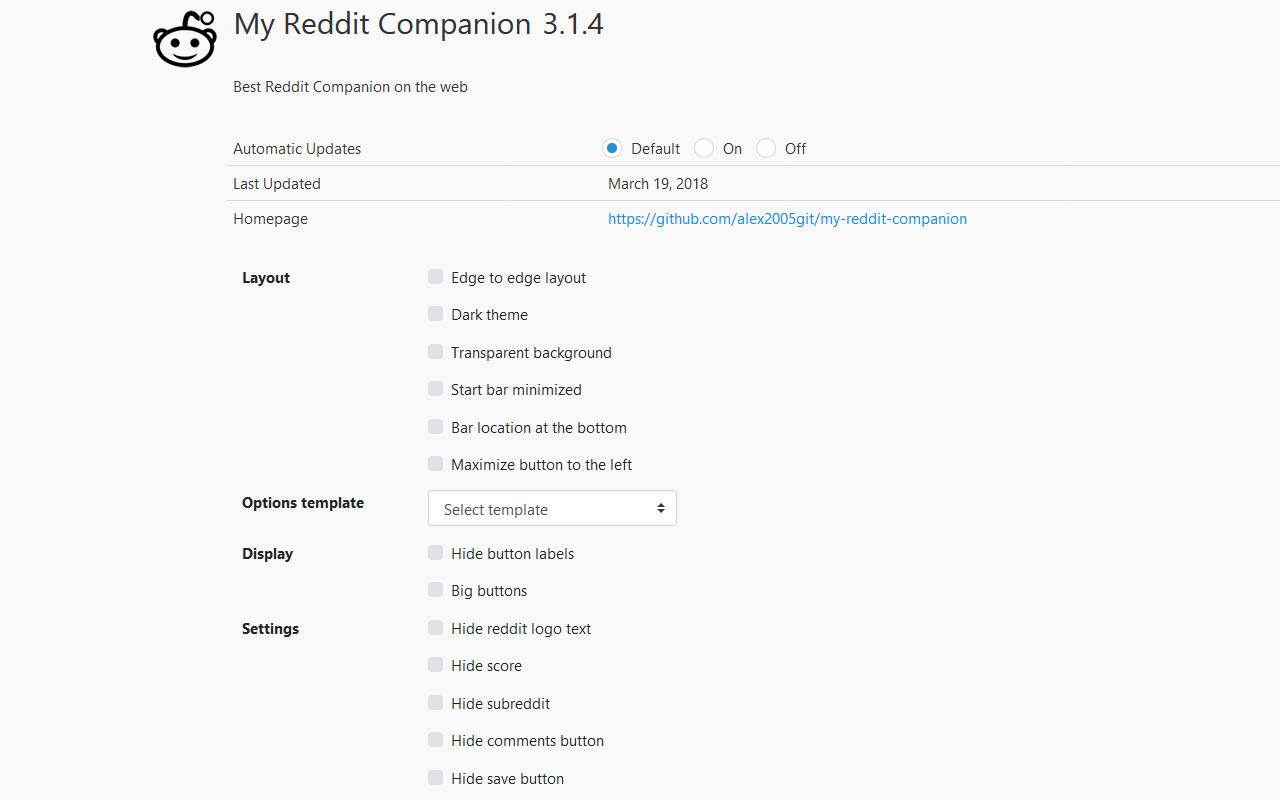
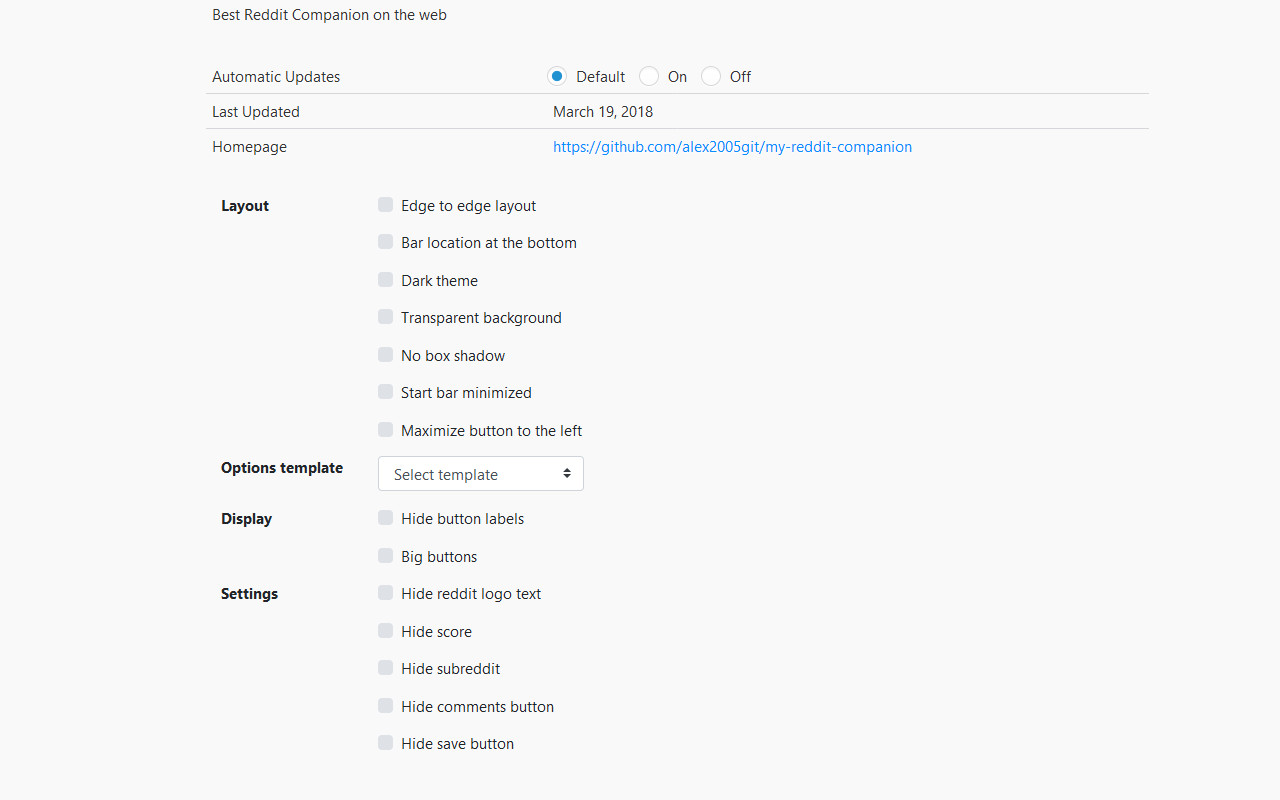
Add no box shadow option + small option changes

diff --git a/src/js/options.js b/src/js/options.js
@@ -6,6 +6,7 @@ var Options = {
         fluid_container: false,
         dark_theme: false,
         transparent_background: false,
+        disable_shadow: false,
         start_minimized: false,
         bar_location_bottom: false,
         maximize_location_left: false,
@@ -17,6 +18,9 @@ var Options = {
         hide_comments: false,
         hide_save: false
     },
+    deleteOptions: [
+        'fluid_container', 'dark_theme', 'transparent_background', 'disable_shadow', 'start_minimized', 'bar_location_bottom', 'maximize_location_left'
+    ],
     init: function () {
         Options.restoreOptions();
 
@@ -26,6 +30,10 @@ var Options = {
 
             Options.getOptions(function (options) {
                 switch (selected_value) {
+                    case 'default':
+                        options = Options.default_options;
+                        break;
+
                     case 'full':
                         options.hide_labels = false;
                         options.big_buttons = true;
@@ -67,12 +75,9 @@ var Options = {
                         break;
                 }
 
-                delete options.fluid_container;
-                delete options.dark_theme;
-                delete options.transparent_background;
-                delete options.start_minimized;
-                delete options.bar_location_bottom;
-                delete options.maximize_location_left;
+                for (var delete_option in Options.deleteOptions) {
+                    delete options[delete_option];
+                }
 
                 Options.setOptions(options);
 
@@ -86,6 +91,18 @@ var Options = {
         });
 
         $('input[type="checkbox"]').on('change', function () {
+            if ($(this).is(':checked')) {
+                switch (Options.getDataKeyFromElement($(this))) {
+                    case 'dark_theme':
+                        Options.setOptionCheckedProp('transparent_background', false);
+                        break;
+
+                    case 'transparent_background':
+                        Options.setOptionCheckedProp('dark_theme', false);
+                        break;
+                }
+            }
+
             Options.saveOptions();
         });
     },
@@ -120,12 +137,15 @@ var Options = {
     saveOptions: function () {
         var data = {};
         $(`[id^=${Options.option_prefix}]`).each(function () {
-            data[$(this).prop('id').replace(Options.option_prefix, '')] = $(this).is(':checked');
+            data[Options.getDataKeyFromElement($(this))] = $(this).is(':checked');
         });
 
-        Utils.myConsoleLog('info', 'Saving data to local storage', data);
+        Utils.myConsoleLog('debug', 'Saving data to local storage', data);
 
         Utils.getBrowserOrChromeVar().storage.local.set(data);
+    },
+    getDataKeyFromElement: function ($element) {
+        return $element.prop('id').replace(Options.option_prefix, '');
     }
 };
 

diff --git a/src/html/options.html b/src/html/options.html
@@ -26,6 +26,14 @@
                 <div class="form-group row">
                     <div class="offset-sm-2 col-sm-10">
                         <div class="custom-control custom-checkbox">
+                            <input type="checkbox" class="custom-control-input" id="option_bar_location_bottom">
+                            <label class="custom-control-label" for="option_bar_location_bottom">Bar location at the bottom</label>
+                        </div>
+                    </div>
+                </div>
+                <div class="form-group row">
+                    <div class="offset-sm-2 col-sm-10">
+                        <div class="custom-control custom-checkbox">
                             <input type="checkbox" class="custom-control-input" id="option_dark_theme">
                             <label class="custom-control-label" for="option_dark_theme">Dark theme</label>
                         </div>
@@ -42,16 +50,16 @@
                 <div class="form-group row">
                     <div class="offset-sm-2 col-sm-10">
                         <div class="custom-control custom-checkbox">
-                            <input type="checkbox" class="custom-control-input" id="option_start_minimized">
-                            <label class="custom-control-label" for="option_start_minimized">Start bar minimized</label>
+                            <input type="checkbox" class="custom-control-input" id="option_disable_shadow">
+                            <label class="custom-control-label" for="option_disable_shadow">No box shadow</label>
                         </div>
                     </div>
                 </div>
                 <div class="form-group row">
                     <div class="offset-sm-2 col-sm-10">
                         <div class="custom-control custom-checkbox">
-                            <input type="checkbox" class="custom-control-input" id="option_bar_location_bottom">
-                            <label class="custom-control-label" for="option_bar_location_bottom">Bar location at the bottom</label>
+                            <input type="checkbox" class="custom-control-input" id="option_start_minimized">
+                            <label class="custom-control-label" for="option_start_minimized">Start bar minimized</label>
                         </div>
                     </div>
                 </div>
@@ -72,6 +80,7 @@
                         <select class="custom-select" id="predefined_settings">
                             <option value="">Select template</option>
 
+                            <option value="default">Default</option>
                             <option value="full">Full</option>
                             <option value="compact">Compact</option>
                             <option value="useful">Useful</option>

diff --git a/src/js/content_bar.js b/src/js/content_bar.js
@@ -267,9 +267,9 @@ var BarElements = {
         $('body').toggleClass('light_theme', !Bar.options.dark_theme);
         $('body').toggleClass('dark_theme', Bar.options.dark_theme);
         $('body').toggleClass('transparent_background', Bar.options.transparent_background || Bar.bar_minimized);
-        $('body').toggleClass('box_shadow_bottom', !Bar.options.bar_location_bottom);
-        $('body').toggleClass('box_shadow_top', Bar.options.bar_location_bottom);
-        $('body').toggleClass('box_shadow_initial', Bar.bar_minimized);
+        $('body').toggleClass('box_shadow_bottom', !Bar.options.disable_shadow && !Bar.options.bar_location_bottom);
+        $('body').toggleClass('box_shadow_top', !Bar.options.disable_shadow && Bar.options.bar_location_bottom);
+        $('body').toggleClass('box_shadow_initial', Bar.options.disable_shadow || Bar.bar_minimized);
     },
     showContentBar: function () {
         BarElements.$content_bar.removeClass('display_none');
